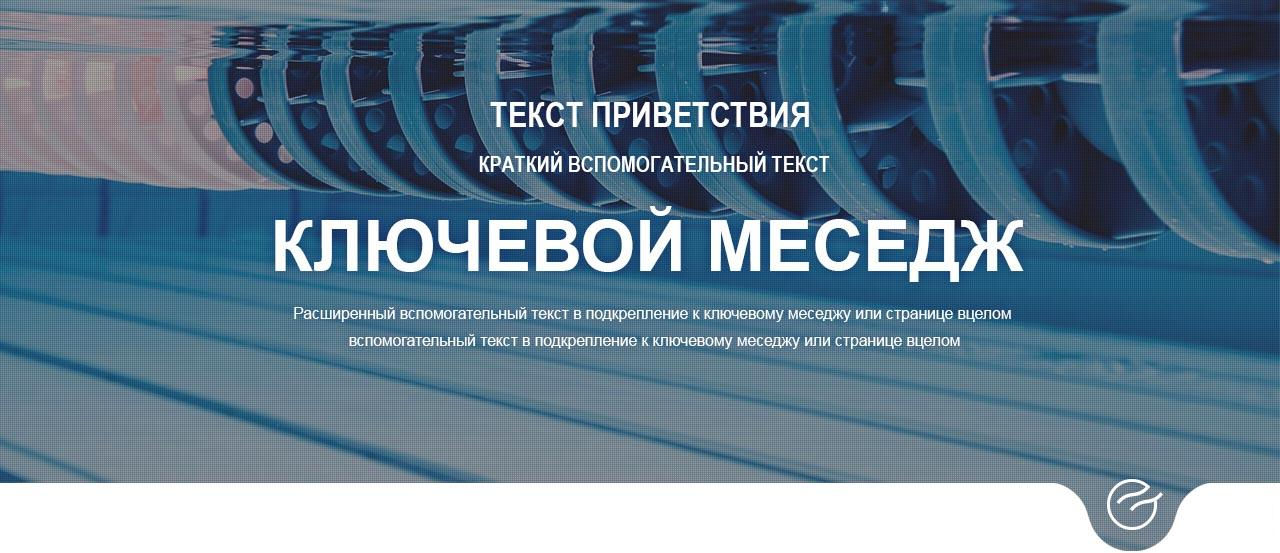
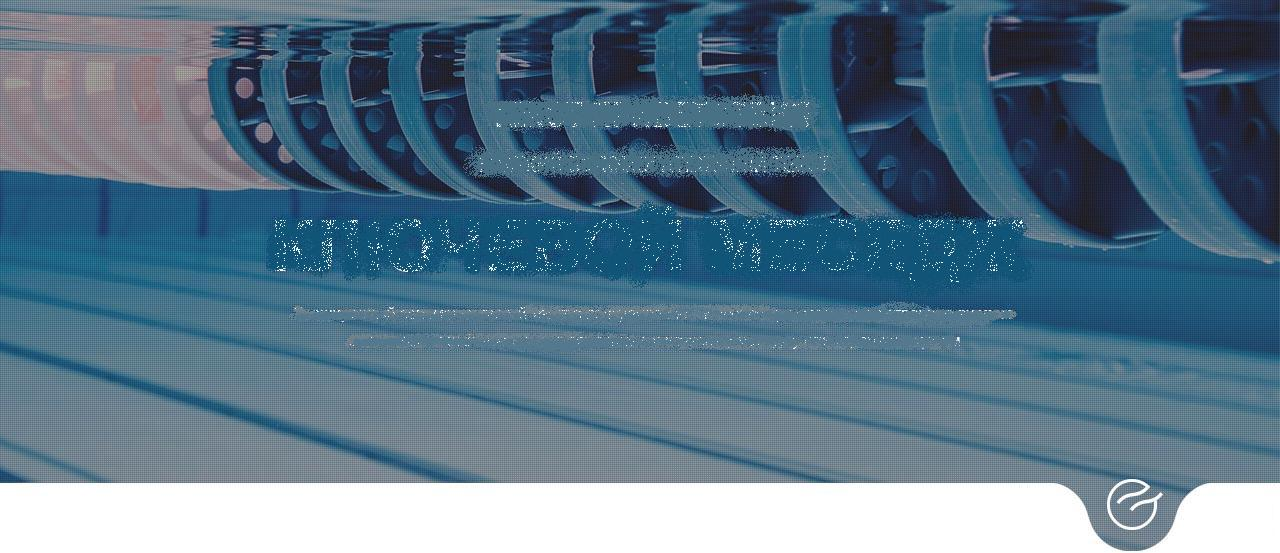
soc commit

Changed region(s): [[0.1875, 0.3689, 0.8125, 0.6456], [0.3438, 0.1537, 0.6562, 0.3382]]

diff --git a/index.html b/index.html
@@ -2,8 +2,10 @@
 
 <style>
 .container {
-	background: #FFFFFF;
+	<!--background: #FFFFFF;-->
+	width: 1280px;
 	margin: auto auto;
+	padding: 0px;
 }
 
 .header {
@@ -29,12 +31,15 @@
 	float: right;
 }
 
+.elmenu:hover {
+background: white;
+}
+
 .textmenu {
 	text-align: center;
 	padding: 0;
 	margin: 0;
 }
-
 
 .blok1 {
 	padding: 0px;
@@ -42,6 +47,34 @@
 	width: 1280px;
 	margin: auto auto;
 	background: url(images/11.jpg);
+	text-align: center;
+	color: white;
+	font-family: Arial;
+	font-weight: bold;
+}
+
+.privet {
+	height: 60px;
+	width: 1280px;
+	padding: 90px 0px 0px 0px;
+	font-size: 25pt;
+}
+.helptxt {
+	height: 50px;
+	width: 1280px;
+	font-size: 18pt;
+}
+.message {
+	height: 100px;
+	width: 1280px;
+	font-size: 50pt;		
+
+}
+.help2txt {
+	height: 553px;
+	width: 1280px;
+	font-weight: normal;
+	font-size: 14pt;
 }
 
 .blok2 {
@@ -172,7 +205,46 @@
 
 .soc {
 	float: left;
+	width: 230px;
 	padding: 0px 0px;
+}
+
+.soc-icon {
+	width: 69px;
+	height: 66px;
+	background: url(images/socknopki.jpg) no-repeat;
+	display: inline-block;
+}
+
+.soc-icon:hover {
+	width: 69px;
+	height: 66px;
+	background: url(images/socknopki2.jpg) no-repeat;
+	display: inline-block;
+} 
+
+.instagram {
+	background-position: 0 0;
+}
+
+.vkontakte {
+	background-position: -69px 0;
+}
+
+.facebook {
+	background-position: -138px 0;
+}
+
+.instagram:hover {
+	background-position: 0 0;
+}
+
+.vkontakte:hover {
+	background-position: -69px 0;
+}
+
+.facebook:hover {
+	background-position: -138px 0;
 }
 
 .diz {
@@ -192,7 +264,6 @@
 			<img src="images/logo.jpg" alt="#">
 		</div>	<!-- Кнопки меню - сделал div-ами - потом узнал что можно через список, не переделывал  -->
 		<div class="elmenu">
-
 		<div class="textmenu">
 			<a href="#" style="text-decoration: none">КОНТАКТЫ</a>
 			</div>
@@ -227,6 +298,18 @@
 	<div style="clear:both"></div>
 <!-- блок - ключевой месендж -->
 	<div class="blok1">
+		<div class="privet">
+		TEXT PRIVETSTVIYA
+		</div>
+		<div class="helptxt">
+		SHORT HELP TEXT
+		</div>
+		<div class="message">
+		MAIN MESSAGE
+		</div>
+		<div class="help2txt">
+		ASSESORY TEXT
+		</div>
 	</div>
 <!-- блок - история компании -->
 	<div class="blok2">
@@ -297,8 +380,14 @@
 	<div class="footer">
 		<div class="telfoot">0 44 550-63-33</div>
 		<div class="prava">Петрохолдинг 2016. Все права защищены<br><a href="#" style="color: green">Контактная информация</a></div>
-		<div class="soc"> <img src="images/socknopki.jpg" alt="#"> </div>
-		<div class="diz">Дизайн от <a href="#" style="color: green">Бюро идей</a> <br><a href="#" style="color: green">Информация о сайте</a></div>
+	<!-- 	<div class="soc"> <img src="images/socknopki.jpg" alt="#"> </div> -->
+	 	<div class="soc">
+			<a href="http://instagram.com/" class="soc-icon instagram"></a>
+			<a href="http://vk.com/" class="soc-icon vkontakte"></a>
+			<a href="http://facebook.com/" class="soc-icon facebook"></a>
+		</div>
+	
+	<div class="diz">Дизайн от <a href="#" style="color: green">Бюро идей</a> <br><a href="#" style="color: green">Информация о сайте</a></div>
 	</div>
 		
 </div>
